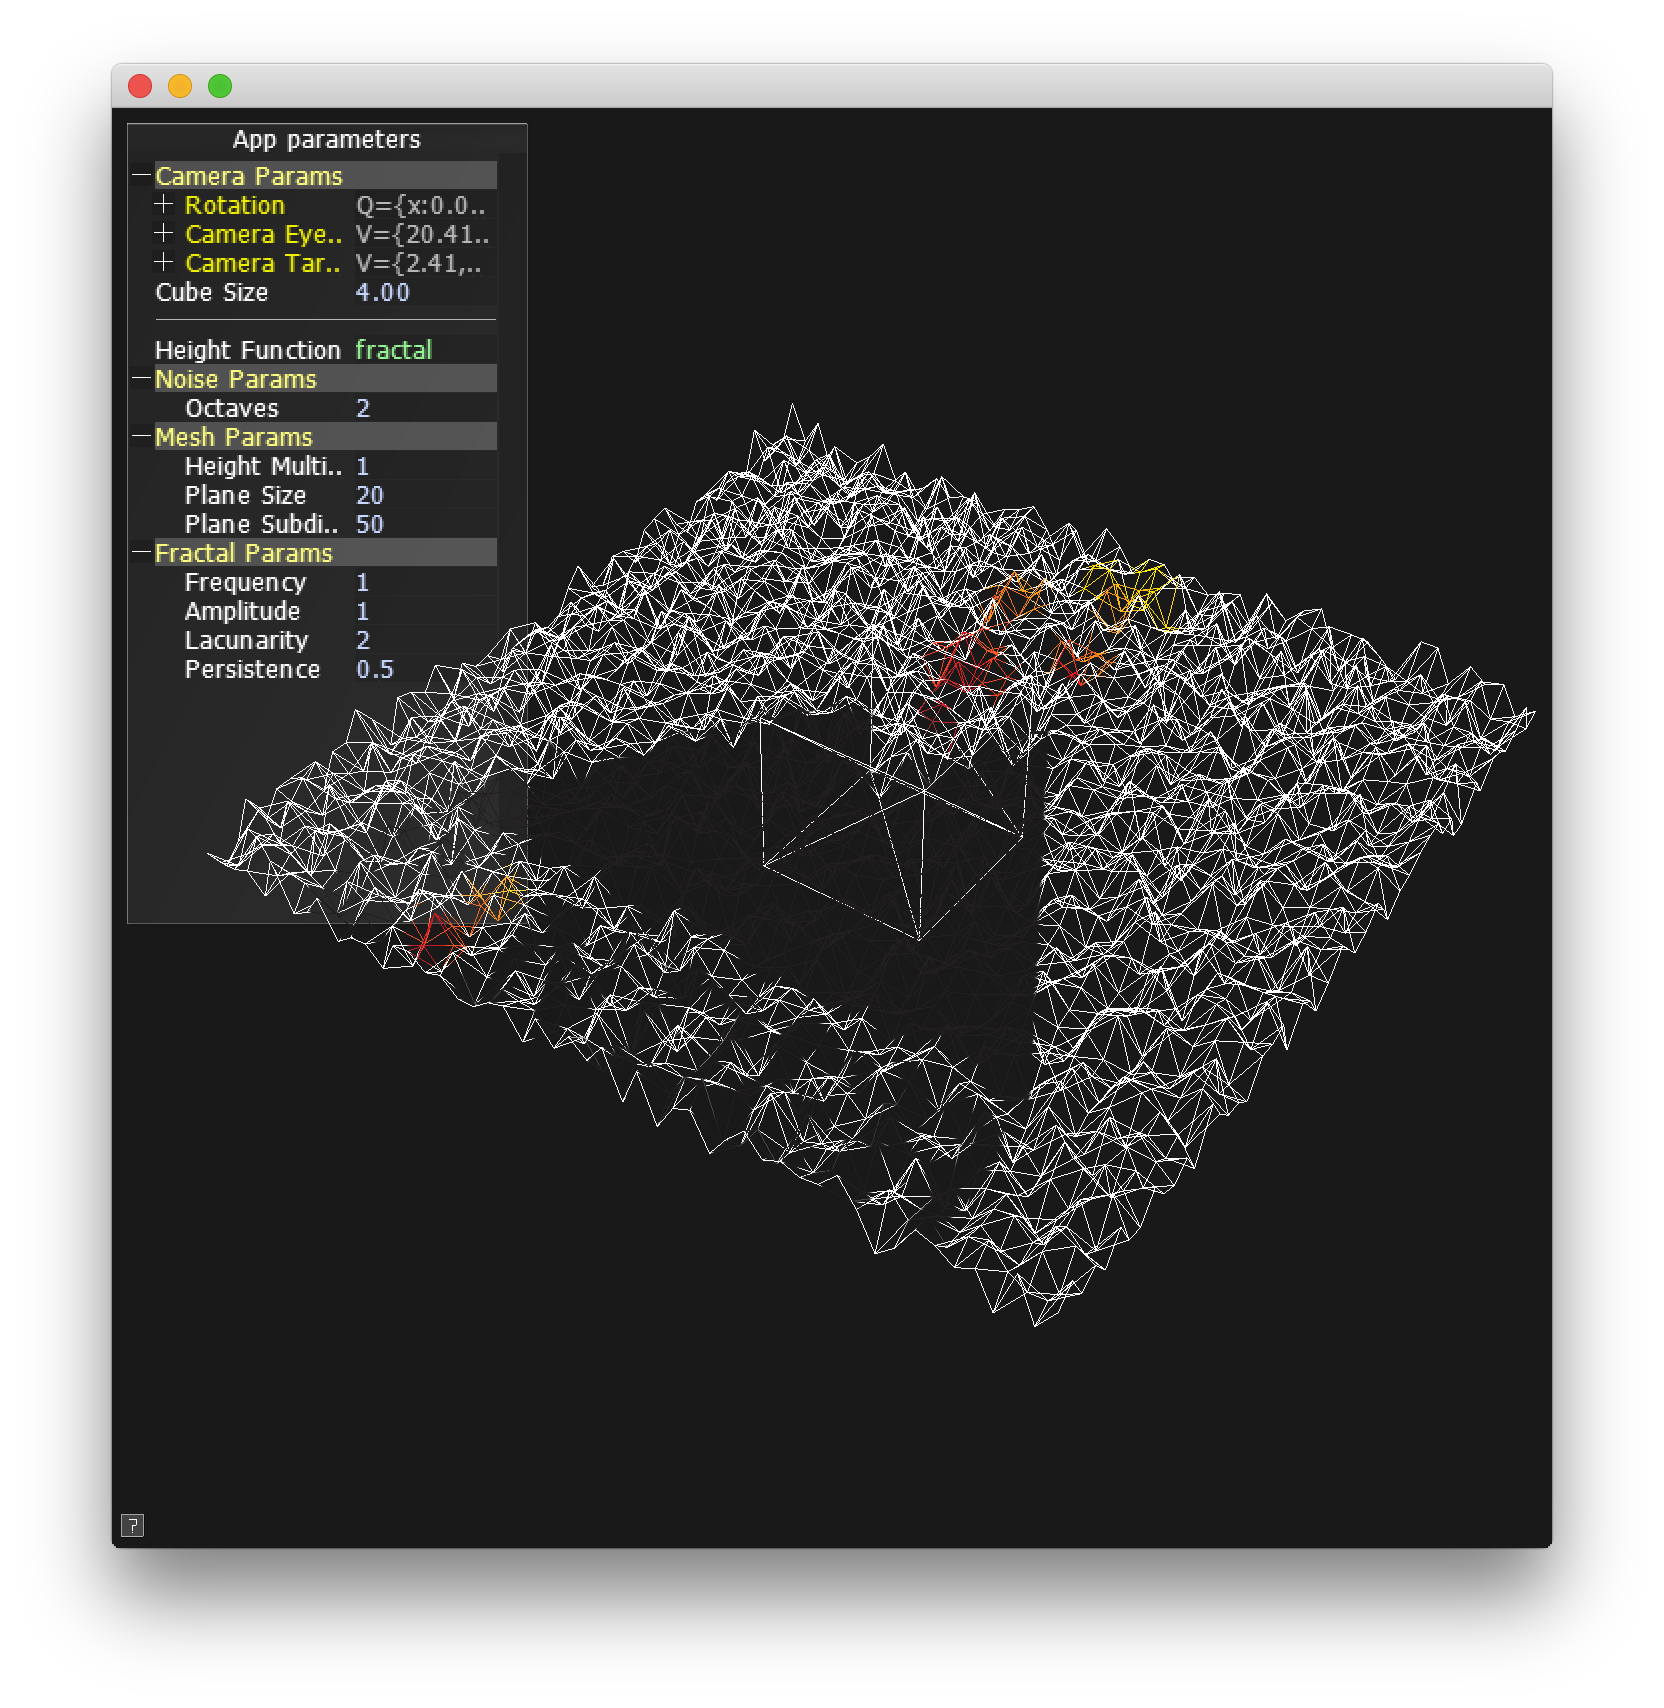
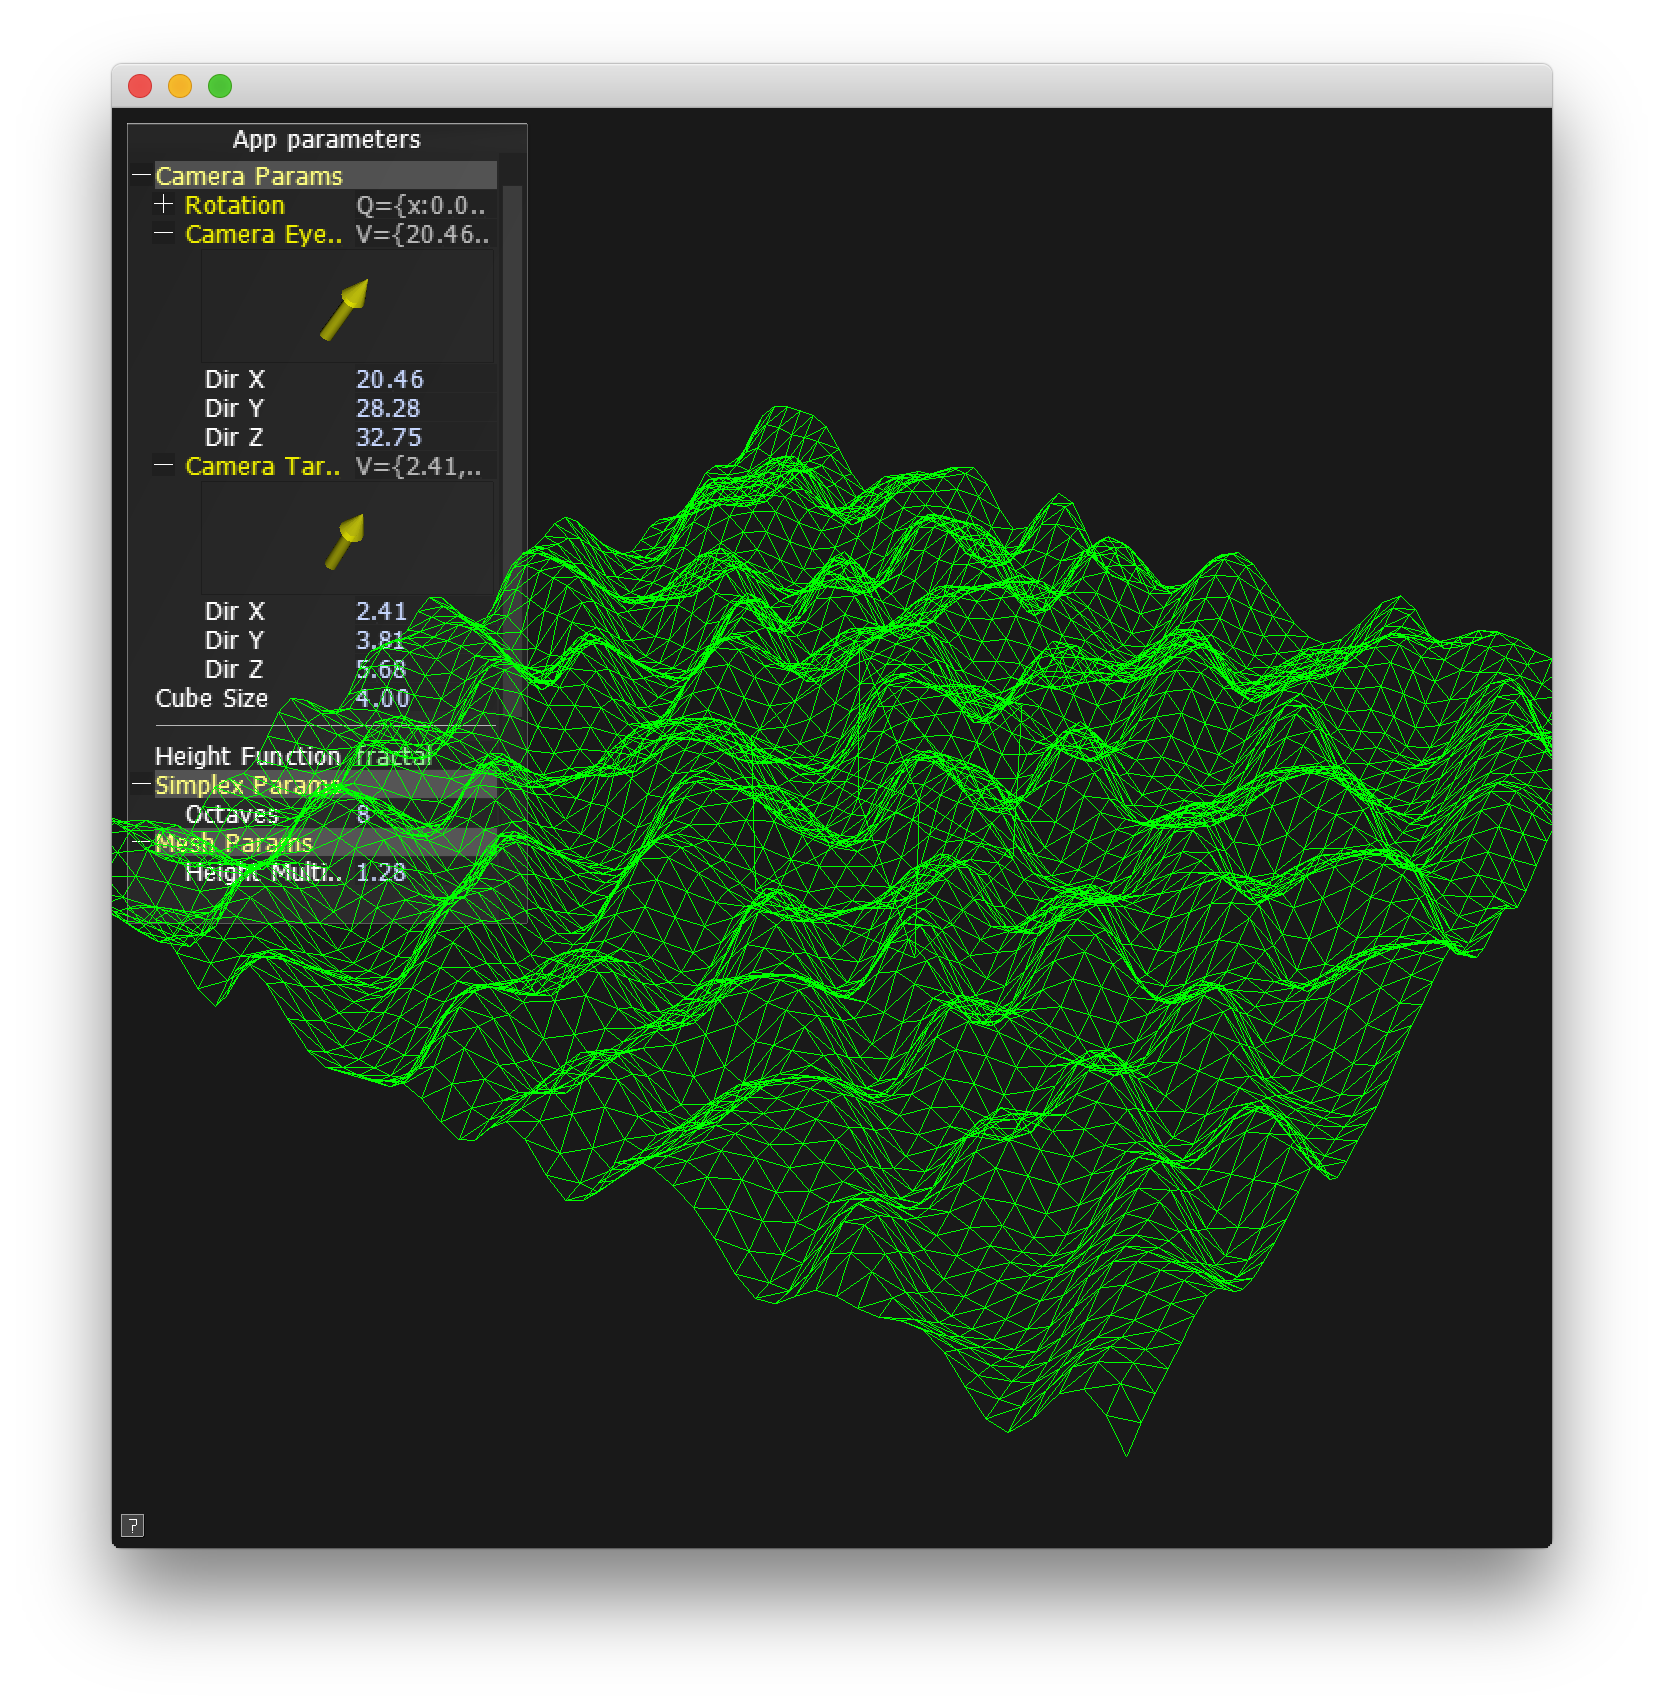
Made param increments smaller for better terrain control

Changed region(s): [[0.0625, 0.0931, 0.9375, 0.8378], [0.3438, 0.6827, 0.375, 0.7137]]

diff --git a/src/MeshParamTestApp.cpp b/src/MeshParamTestApp.cpp
@@ -215,7 +215,7 @@ void MeshParamTestApp::setupParams()
     
     mParams->addParam("Octaves", &mOctaves).min(1).max(20).group("Simplex Params").updateFn( [this] { console() << "new mOctaves value: " << mOctaves << endl; } );
     
-    mParams->addParam("Height Multiplier", &mHeightMult ).group("Mesh Params");
+    mParams->addParam("Height Multiplier", &mHeightMult ).precision( 2 ).step( 0.02f ).group("Mesh Params");
     
     function<void( int )> planeSizeSetter = bind(&MeshParamTestApp::setPlaneSize, this, placeholders::_1);
     function<int ()> planeSizeGetter = bind(&MeshParamTestApp::getPlaneSize, this);
@@ -225,10 +225,10 @@ void MeshParamTestApp::setupParams()
     function<int ()> planeSubdivisionsGetter = bind( &MeshParamTestApp::getPlaneSubdivisions, this );
     mParams->addParam( "Plane Subdivisions", planeSubdivisionsSetter, planeSubdivisionsGetter ).group("Mesh Params");
     
-    mParams->addParam("Frequency", &mNoiseFrequency).min(0.1f).max(20.0f).group("Fractal Params").updateFn([this]{updateNoise();});
-    mParams->addParam("Amplitude", &mNoiseAmplitude).min(0.1f).max(20.0f).group("Fractal Params").updateFn([this]{updateNoise();});
-    mParams->addParam("Lacunarity", &mNoiseLacunarity).min(0.1f).max(20.0f).group("Fractal Params").updateFn([this]{updateNoise();});
-    mParams->addParam("Persistence", &mNoisePersistence).min(0.1f).max(20.0f).group("Fractal Params").updateFn([this]{updateNoise();});
+    mParams->addParam("Frequency", &mNoiseFrequency).min(0.1f).max(20.0f).precision(2).step(0.02f).group("Fractal Params").updateFn([this]{updateNoise();});
+    mParams->addParam("Amplitude", &mNoiseAmplitude).min(0.1f).max(20.0f).precision(2).step(0.02f).group("Fractal Params").updateFn([this]{updateNoise();});
+    mParams->addParam("Lacunarity", &mNoiseLacunarity).min(0.1f).max(20.0f).precision(2).step(0.01f).group("Fractal Params").updateFn([this]{updateNoise();});
+    mParams->addParam("Persistence", &mNoisePersistence).min(0.1f).max(20.0f).precision(1).step(0.1f).group("Fractal Params").updateFn([this]{updateNoise();});
 }
 
 void MeshParamTestApp::resize()
@@ -259,8 +259,8 @@ void MeshParamTestApp::draw()
     // Draw the interface
     mParams->draw();
     
-    gl::ScopedGlslProg glslScope( gl::getStockShader( gl::ShaderDef().texture() ) );
-    gl::ScopedTextureBind texScope( mTexture );
+    gl::bindStockShader(gl::ShaderDef().color());
+    gl::color(0, 1, 0);
     
     glPolygonMode(GL_FRONT_AND_BACK, GL_LINE);
     gl::draw( mVboMesh );
